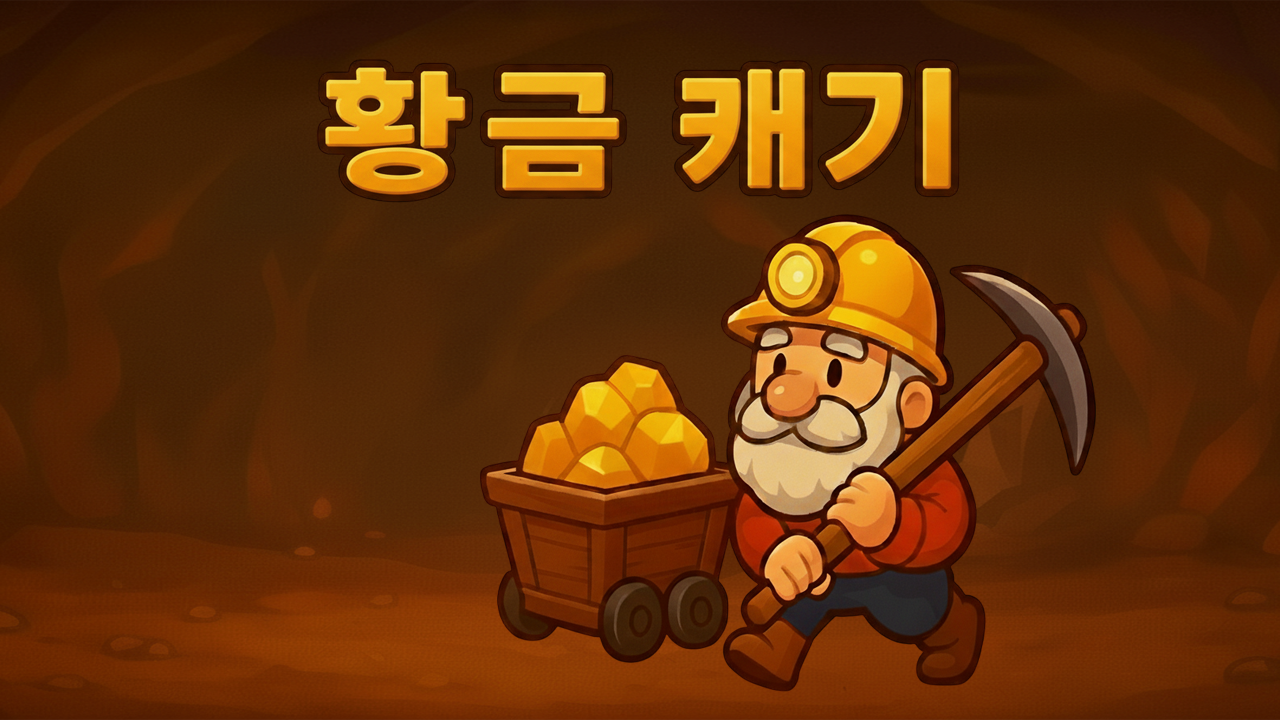
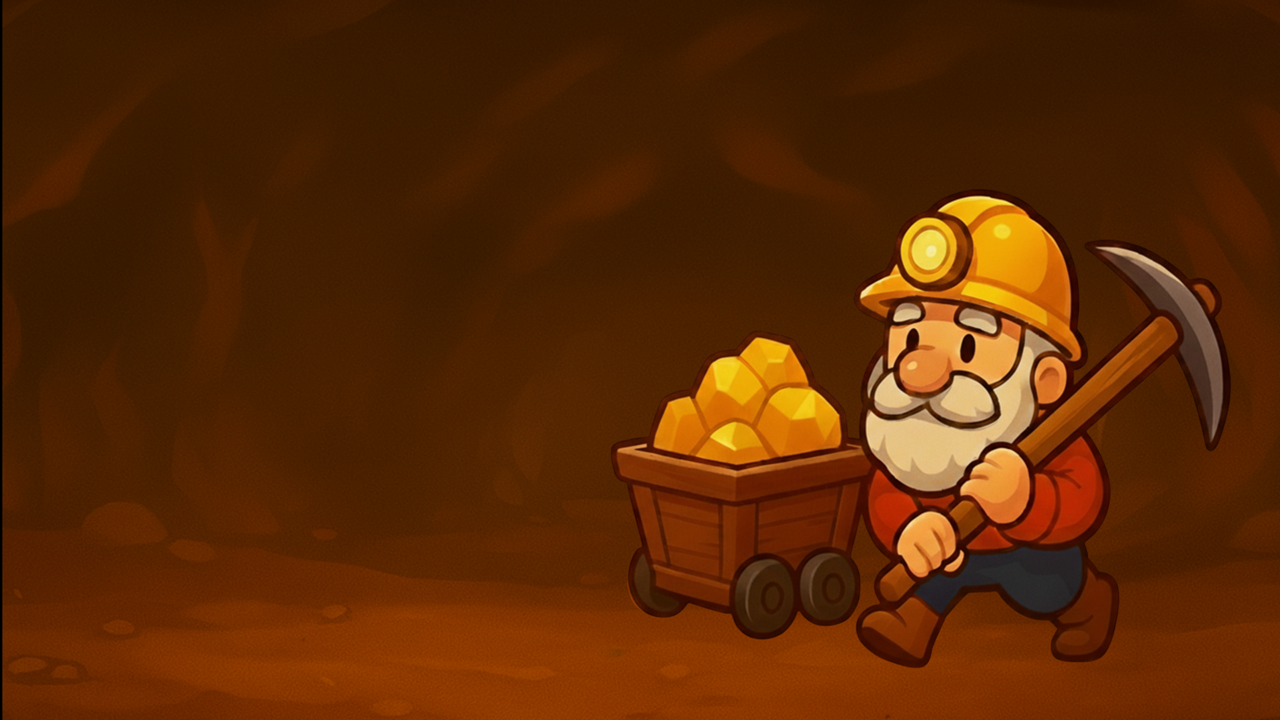
인트로 수정

diff --git a/src/scene/GameStartScene.js b/src/scene/GameStartScene.js
@@ -11,17 +11,33 @@ export default class GameStartScene extends Phaser.Scene {
     this.introBackground = this.add.image(0, 0, 'intro_bg')
       .setOrigin(0, 0); // 배경
 
-    this.playButton = this.add.image(250, 400, 'play_button')
+    this.playButton = this.add.image(235, 600, 'play_button')
       .setScale(0.6)
       .setInteractive({ useHandCursor: true });
 
-    this.howToGameButton = this.add.image(250, 520, 'howto_button')
+    this.howToGameButton = this.add.image(480, 600, 'howto_button')
       .setScale(0.6)
       .setInteractive({ useHandCursor: true });
 
     this.bgmButton = new BgmButton(this, 80, 60);
 
+    this.title = this.add.image(400, 250, 'intro_title').setOrigin(0.5, 0.5).setScale(0);
+
     //event
+    this.createAnimation();
+    this.addEvent();
+  }
+
+  createAnimation = () => {
+    this.tweens.add({
+      targets: this.title,
+      scale: 1,
+      duration: 600,
+      ease: 'Back.Out' // 살짝 튀어나오는 듯한 느낌
+    });
+  }
+
+  addEvent = () => {
     this.playButton.on('pointerover', () => this.playButton.setScale(0.65));
     this.playButton.on('pointerout', () => this.playButton.setScale(0.6))
     this.howToGameButton.on('pointerout', () => this.howToGameButton.setScale(0.6))

diff --git a/src/scene/GameMainScene.js b/src/scene/GameMainScene.js
@@ -53,7 +53,6 @@ export default class MainScene extends Phaser.Scene {
     // 아이템 생성
     this.dynamite = this.setItems(405, 123, 'dynamite');
     this.potion = this.setItems(498, 123, 'potion');
-    
 
     this.resetAnimation(); // 애니메이션 초기화
     this.addEvent(); // 이벤트 등록
@@ -217,7 +216,6 @@ export default class MainScene extends Phaser.Scene {
     });
 
     this.miner.playAnimation('cry');
-    
   }
 
   useDynamite = () => {
@@ -249,20 +247,13 @@ export default class MainScene extends Phaser.Scene {
     this.gameOver = true;
     this.scene.pause();        
     AudioManager.stopAll();
-    console.log(GameManager.level);
-    
-    
-    if (GameManager.level === 10) {
-      this.scene.launch('GameFinishScene');
-      return;
-    }
 
     if (GameManager.score < GameManager.targetScore) {
       this.scene.launch('GameOverScene');
       AudioManager.play('lose');
-    }
-    else {
-      this.scene.launch('LevelDoneScene');
+    } else {
+      if (GameManager.level === 10) this.scene.launch('GameFinishScene');
+      else this.scene.launch('LevelDoneScene');
       AudioManager.play('win');
     }
   }

diff --git a/src/components/ProgressBar.js b/src/components/ProgressBar.js
@@ -21,7 +21,7 @@ export default class ProgressBar {
       fontFamily: 'Cafe24Surround',
       fontStyle: 'bold'
     }).setOrigin(0.5).setDepth(15);
-
+    
     this.targetScoreBox = scene.add.image(1200, 80, 'miner_trophi_box');
     this.targetScoreText = scene.add.text(1215, 107, '', {
       fontSize: '28px',
@@ -37,7 +37,7 @@ export default class ProgressBar {
     this.progress = Phaser.Math.Clamp(current / target, 0, 1);
 
     if (this.progress > 0) {
-      this.bar.clear();
+      this.bar.clear(); 
       this.bar.fillStyle(0xf7db49, 1);
       this.bar.fillRoundedRect(this.x, this.y, this.width * this.progress, this.height, 12);
     }

diff --git a/src/scene/PreloadScene.js b/src/scene/PreloadScene.js
@@ -15,6 +15,8 @@ export default class PreloadScene extends Phaser.Scene {
     this.load.image('intro_bg', './images/miner_intro_bg.png');   
     this.load.image('finish_bg', './images/finish/miner_finish_bg.png');
 
+    this.load.image('intro_title', './images/miner_intro_title.png');
+
     // item
     this.load.image('dynamite', './images/miner_items_dynamite.png');
     this.load.image('potion', './images/miner_items_potion.png');

diff --git a/src/style.css b/src/style.css
@@ -347,7 +347,7 @@ button {
   font-size: 2.5rem;
   font-family: 'GMarketSans';
   text-align: center;
-  color: #FECE00;
+  color: #351401;
   display: flex;
   align-items: center;
   justify-content: center;
